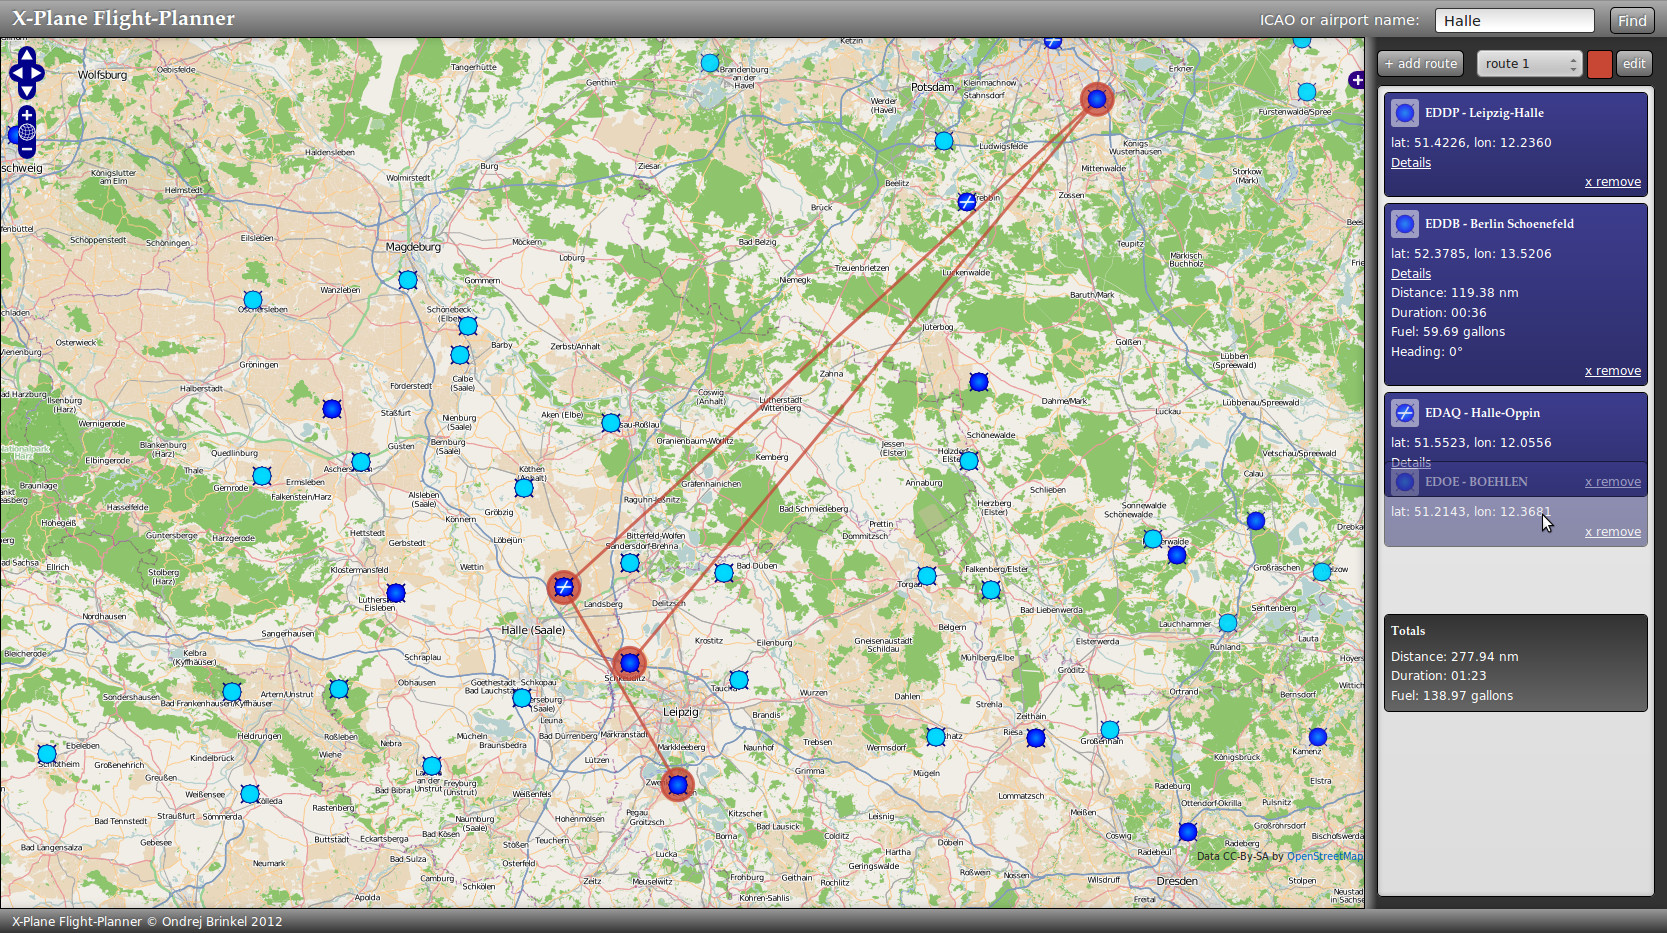
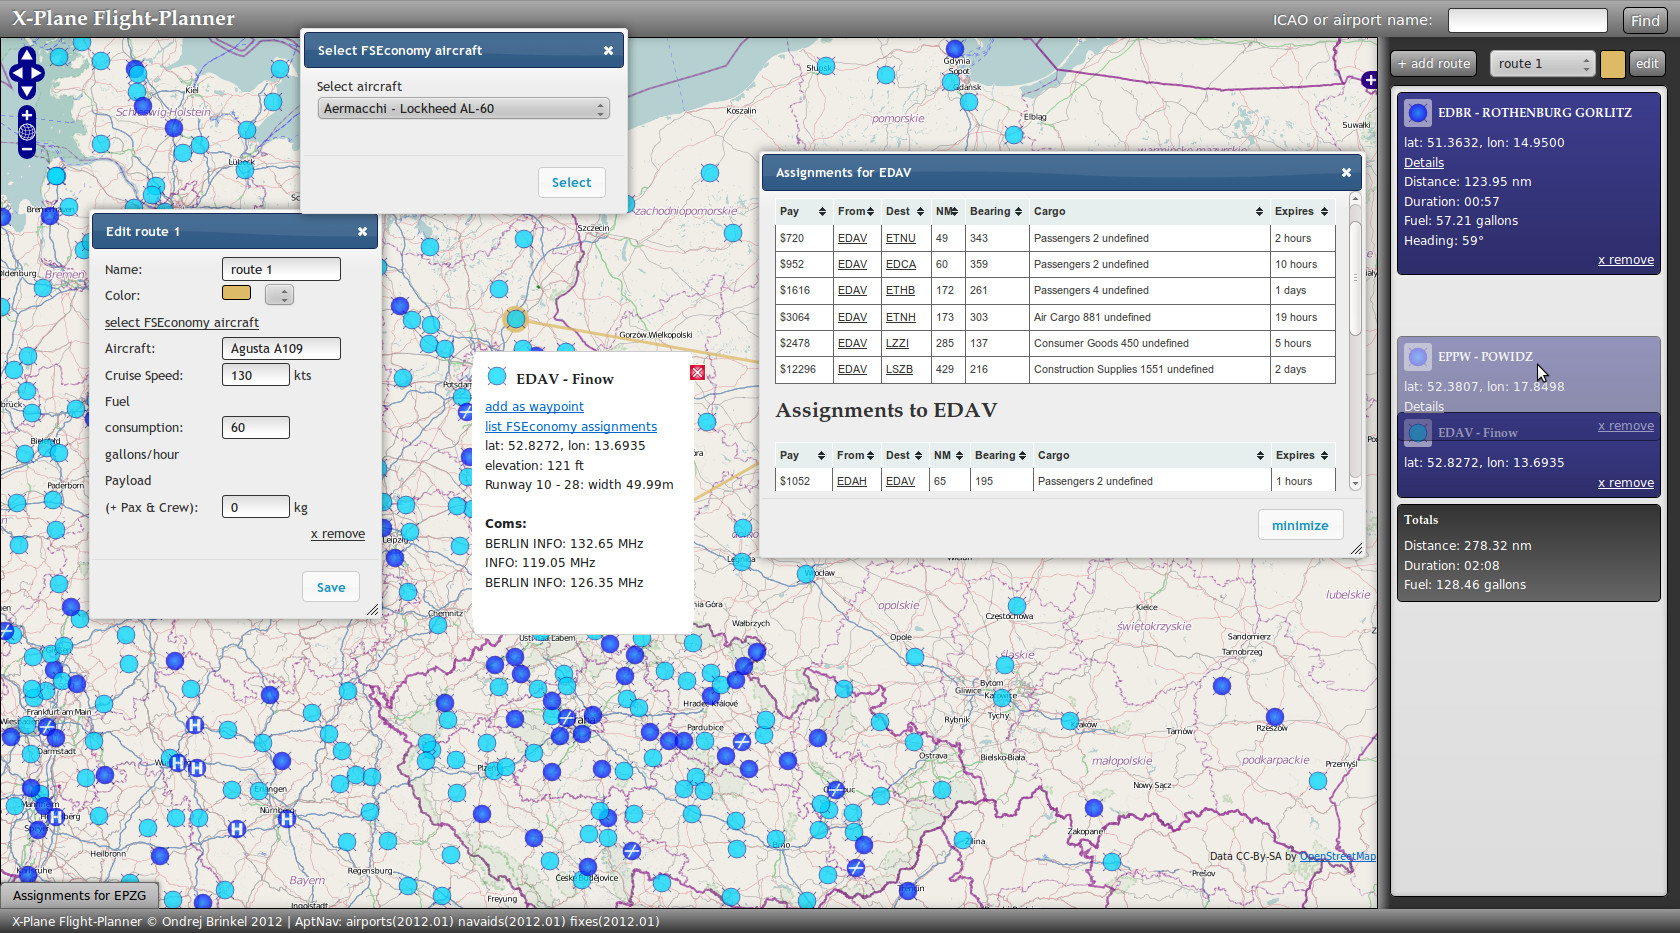
- new screenshot showing almost all features at once

diff --git a/README.md b/README.md
@@ -7,7 +7,7 @@ Future versions will intergrate the economy system FSEconomy within the flight p
 
 <figure>
 <a href="https://github.com/der-On/X-Plane-Flight-Planner/raw/master/docs/screenshot.jpg"><img src="https://github.com/der-On/X-Plane-Flight-Planner/raw/master/docs/screenshot.jpg" width="600" /></a>
-<figcaption>Screenshot from 01. March 2012</figcaption>
+<figcaption>Screenshot from 06. March 2012</figcaption>
 </figure>
 
 ## How to install
